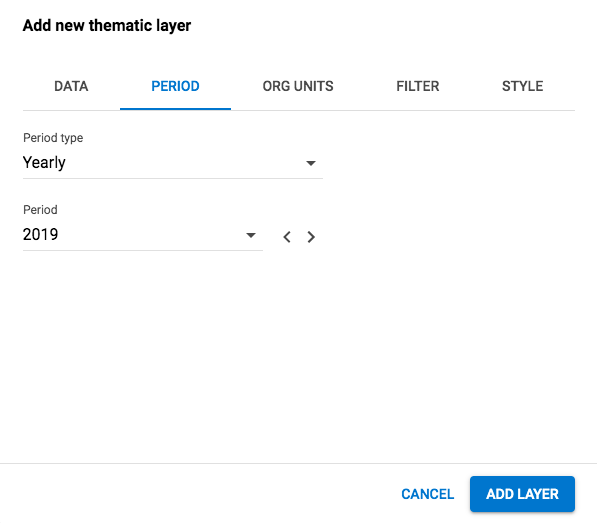
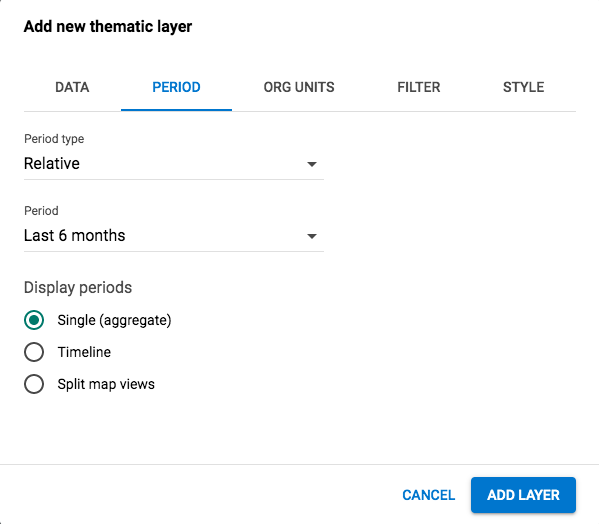
Time maps docs

diff --git a/src/commonmark/en/content/user/using-the-maps-app.md b/src/commonmark/en/content/user/using-the-maps-app.md
@@ -262,19 +262,36 @@ layer** selection. This opens the Events layer configuration dialog.
 
     ![](resources/images/maps/maps_thematic_layer_dialog_PERIOD.png)
 
-      - select the time span over which the thematic data is aggregated.
+      - select the time span over which the thematic data is mapped.
         You can select either a fixed period or a relative period.
+
+          - Relative period  
+
+            In the **Period type** field select **Relative**, then
+            select one of the relative periods, for example **Last year** or 
+            **Last 12 months**, in the **Period** field. If you select a
+            relative period covering mutiple years/months/weeks/days 
+            the layer can be displayed as
+
+              - Single (aggregate)
+
+              Show aggregate values for the relative period selected (default).
+
+              - Timeline
+
+              Includes a timeline allowing you to step through the periods.
+              Only one timeline layer can be added to the same map. 
+
+              - Split map views
+
+              Show multiple maps allowing you to compare different periods
+              side by side. Supported for relative periods with 12 items
+              or below. Can not be combined with other layer types.  
 
           - Fixed period  
 
             In the **Period type** field select period length, then
             select the target in the **Period** field.
-
-          - Relative period  
-
-            In the **Period type** field select **Relative**, then
-            select one of the relative periods, for example **This
-            month** or **Last year**, in the **Period** field.
 
           - Start/end dates  
 
